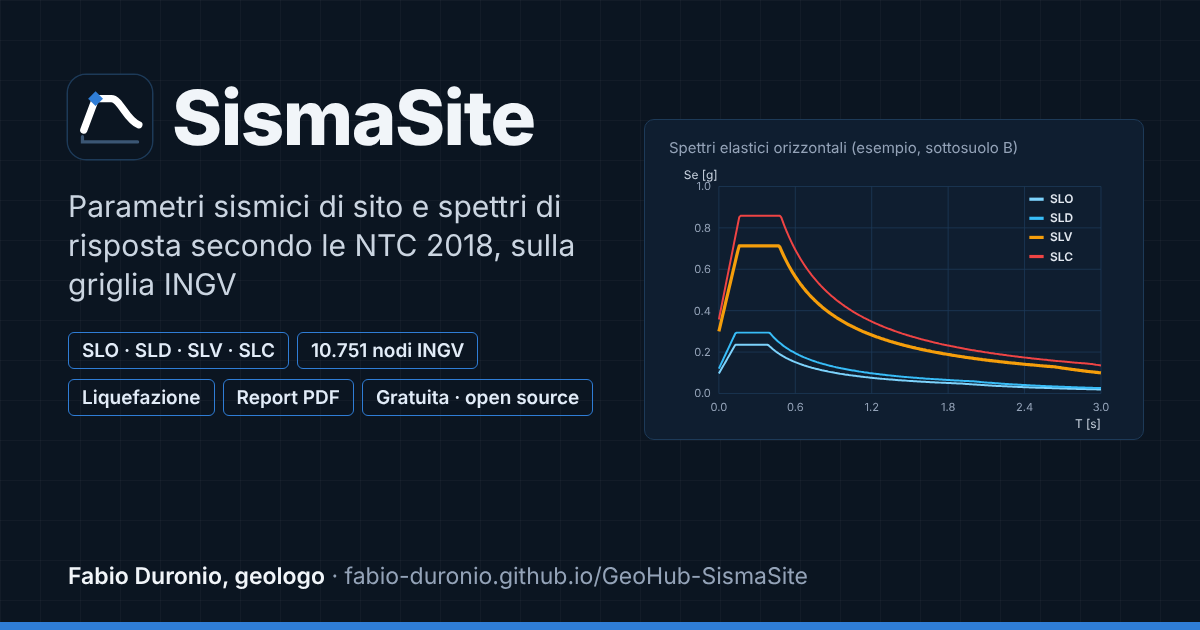
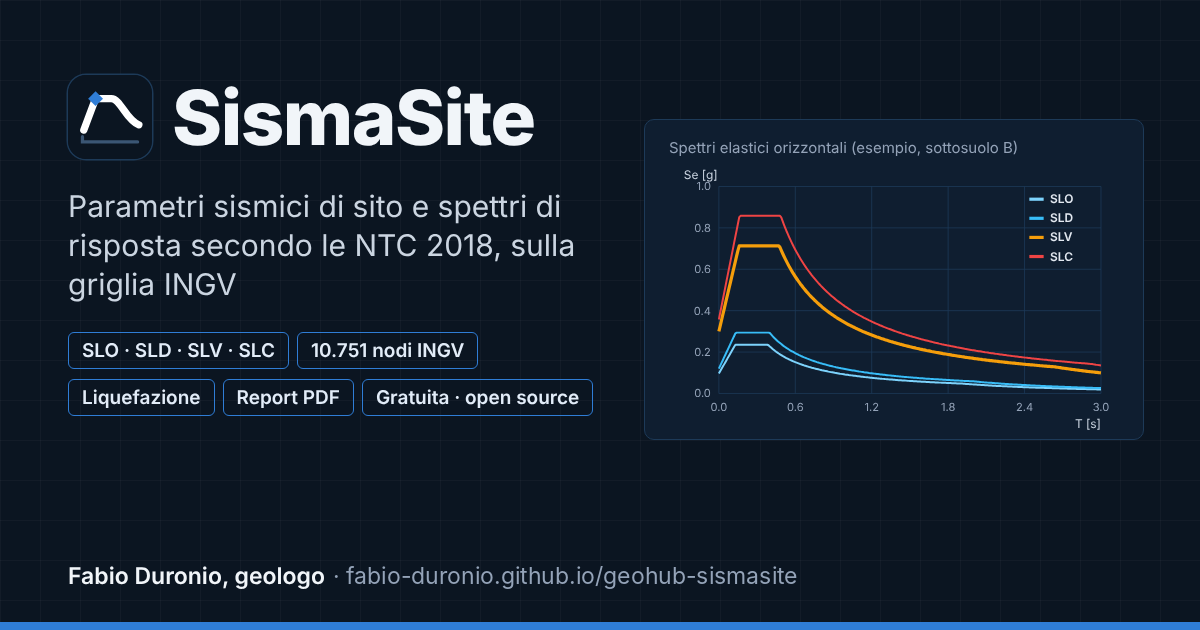
Anteprima del link: nuovo indirizzo in minuscolo nell'immagine (#16)
assets/og-image.png riportava fabio-duronio.github.io/GeoHub-SismaSite, che non
viene reindirizzato; ora riporta fabio-duronio.github.io/geohub-sismasite.

Claude-Session: https://claude.ai/code/session_01NZHCW98aaTurKPLH6tqn1Z

Changed region(s): [[0.2775, 0.9048, 0.6783, 0.9349]]

diff --git a/CHANGELOG.md b/CHANGELOG.md
@@ -19,6 +19,9 @@ Nuova impaginazione e carta di pericolosità INGV. I parametri calcolati non cam
 - Legenda della carta in un riquadro proprio in basso a destra, richiudibile (sul telefono parte chiusa e si alterna al pannello dei livelli). La legenda occupa solo lo spazio libero sotto il pannello dei livelli e scorre al suo interno: i due riquadri non si sovrappongono. Il pannello dei livelli si può ridurre su ogni schermo.
 - Blocco della mappa: rotella disattivata sul computer e trascinamento disattivato sul telefono finché non si tocca il lucchetto, per non spostare la mappa scorrendo la pagina. Scala grafica.
 
+**Anteprima del link**
+- Immagine di anteprima (`assets/og-image.png`) aggiornata con il nuovo indirizzo in minuscolo `fabio-duronio.github.io/geohub-sismasite` (il vecchio indirizzo non viene reindirizzato).
+
 **App future**
 - I testi dell'app non citano più i nomi provvisori delle future app GeoHub, ancora in progetto: k_h, k_v e lo screening di liquefazione sono indicati come destinati a future app dedicate.
 
